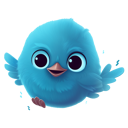
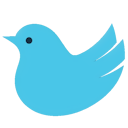
feat: Update files to reflect changes in Twitter's branding to 𝕏

diff --git a/content.js b/content.js
@@ -1,51 +1,48 @@
-// Define the logo selector and the SVG of the original Twitter logo.
-const logoSelector = 'header h1[role="heading"] svg'
-const originalTwitterLogo = `
-<svg viewBox="0 0 24 24" aria-hidden="true" class="r-1cvl2hr r-4qtqp9 r-yyyyoo r-16y2uox r-8kz0gk r-dnmrzs r-bnwqim r-1plcrui r-lrvibr r-lrsllp"><g><path d="M23.643 4.937c-.835.37-1.732.62-2.675.733.962-.576 1.7-1.49 2.048-2.578-.9.534-1.897.922-2.958 1.13-.85-.904-2.06-1.47-3.4-1.47-2.572 0-4.658 2.086-4.658 4.66 0 .364.042.718.12 1.06-3.873-.195-7.304-2.05-9.602-4.868-.4.69-.63 1.49-.63 2.342 0 1.616.823 3.043 2.072 3.878-.764-.025-1.482-.234-2.11-.583v.06c0 2.257 1.605 4.14 3.737 4.568-.392.106-.803.162-1.227.162-.3 0-.593-.028-.877-.082.593 1.85 2.313 3.198 4.352 3.234-1.595 1.25-3.604 1.995-5.786 1.995-.376 0-.747-.022-1.112-.065 2.062 1.323 4.51 2.093 7.14 2.093 8.57 0 13.255-7.098 13.255-13.254 0-.2-.005-.402-.014-.602.91-.658 1.7-1.477 2.323-2.41z"></path></g></svg>
-`
+const logoSelector = 'header h1[role="heading"] svg';
+const originalTwitterLogo = `<svg viewBox="0 0 24 24" aria-hidden="true" class="r-1cvl2hr r-4qtqp9 r-yyyyoo r-16y2uox r-8kz0gk r-dnmrzs r-bnwqim r-1plcrui r-lrvibr r-lrsllp"><g><path d="M23.643 4.937c-.835.37-1.732.62-2.675.733.962-.576 1.7-1.49 2.048-2.578-.9.534-1.897.922-2.958 1.13-.85-.904-2.06-1.47-3.4-1.47-2.572 0-4.658 2.086-4.658 4.66 0 .364.042.718.12 1.06-3.873-.195-7.304-2.05-9.602-4.868-.4.69-.63 1.49-.63 2.342 0 1.616.823 3.043 2.072 3.878-.764-.025-1.482-.234-2.11-.583v.06c0 2.257 1.605 4.14 3.737 4.568-.392.106-.803.162-1.227.162-.3 0-.593-.028-.877-.082.593 1.85 2.313 3.198 4.352 3.234-1.595 1.25-3.604 1.995-5.786 1.995-.376 0-.747-.022-1.112-.065 2.062 1.323 4.51 2.093 7.14 2.093 8.57 0 13.255-7.098 13.255-13.254 0-.2-.005-.402-.014-.602.91-.658 1.7-1.477 2.323-2.41z"></path></g></svg>`;
 
-// Initialize a flag to indicate whether the logo has been replaced.
-let logoReplaced = false
+let logoReplaced = false;
 
-// Function to replace the Doge logo with the original Twitter logo.
-const replaceLogo = () => {
-  // If the logo has already been replaced, return.
-  if (logoReplaced) return
+function replaceSvgElement(parentElement) {
+  const svgElements = Array.from(parentElement.querySelectorAll("svg"));
 
-  // Find the logo element using the defined selector.
-  const logoElement = document.querySelector(logoSelector)
-  if (!logoElement) return
-
-  // Get the parent element of the logo.
-  const logoElementWrapper = logoElement.parentNode
-
-  if (logoElementWrapper) {
-    // Iterate through the child elements of the logoElementWrapper.
-    for (let i = 0; i < logoElementWrapper.children.length; i++) {
-      const childElement = logoElementWrapper.children[i]
-
-      // If the child element is an SVG, replace its innerHTML with the original Twitter logo SVG path.
-      if (childElement.tagName.toLowerCase() === 'svg') {
-        childElement.innerHTML = originalTwitterLogo
-        logoReplaced = true
-        break
-      }
-    }
+  for (const svgElement of svgElements) {
+    svgElement.innerHTML = originalTwitterLogo;
+    logoReplaced = true;
+    break;
   }
 }
 
-// Create a MutationObserver to watch for changes in the DOM.
+function replaceLogo() {
+  if (logoReplaced) return;
+
+  const logoElement = document.querySelector(logoSelector);
+  if (!logoElement) return;
+
+  const parentElement = logoElement.parentNode;
+  if (!parentElement) return;
+
+  replaceSvgElement(parentElement);
+}
+
+function replaceFavicon() {
+  const faviconElement = document.querySelector('link[rel="shortcut icon"]');
+  if (faviconElement) {
+    faviconElement.href = "//abs.twimg.com/favicons/twitter.2.ico";
+  }
+}
+
 const observer = new MutationObserver((mutations) => {
   for (const mutation of mutations) {
-    // If new nodes are added to the DOM, attempt to replace the logo.
-    if (mutation.type === 'childList' && mutation.addedNodes.length) {
-      replaceLogo()
+    if (mutation.type === "childList" && mutation.addedNodes.length) {
+      replaceLogo();
+      replaceFavicon();
     }
   }
-})
+});
 
-// Start observing the document body for changes in the DOM.
-observer.observe(document.body, { childList: true, subtree: true })
-
-// Replace the logo once the DOM content is loaded.
-document.addEventListener('DOMContentLoaded', replaceLogo)
+observer.observe(document.body, { childList: true, subtree: true });
+document.addEventListener("DOMContentLoaded", function () {
+  replaceLogo();
+  replaceFavicon();
+});

diff --git a/background.js b/background.js
@@ -1,32 +1,30 @@
-// Function to update the extension icon based on the currently active tab's URL.
-function updateIcon(tab) {
-  const twitterUrlPattern = /^https?:\/\/(\w+\.)?twitter\.com\/.*$/
+const twitterUrlPattern = /^https?:\/\/(\w+\.)?twitter\.com\/.*$/;
+const coloredIconPath = { 48: "assets/twitter-48.png" };
+const grayIconPath = { 48: "assets/twitter-gray-48.png" };
 
-  // If the tab URL matches the Twitter URL pattern, set the colored icon.
+function setIcon(tab, path) {
+  chrome.action.setIcon({
+    path: path,
+    tabId: tab.id,
+  });
+}
+
+function updateIcon(tab) {
   if (tab.url.match(twitterUrlPattern)) {
-    chrome.action.setIcon({
-      path: { 48: 'assets/twitter-48.png' },
-      tabId: tab.id,
-    })
+    setIcon(tab, coloredIconPath);
   } else {
-    // If the tab URL does not match the pattern, set the grayed-out icon.
-    chrome.action.setIcon({
-      path: { 48: 'assets/twitter-gray-48.png' },
-      tabId: tab.id,
-    })
+    setIcon(tab, grayIconPath);
   }
 }
 
-// Listen for tab updates and update the icon when the tab's status is 'complete'.
 chrome.tabs.onUpdated.addListener((tabId, changeInfo, tab) => {
-  if (changeInfo.status === 'complete') {
-    updateIcon(tab)
+  if (changeInfo.status === "complete") {
+    updateIcon(tab);
   }
-})
+});
 
-// Listen for tab activation and update the icon for the newly activated tab.
 chrome.tabs.onActivated.addListener((activeInfo) => {
   chrome.tabs.get(activeInfo.tabId, (tab) => {
-    updateIcon(tab)
-  })
-})
+    updateIcon(tab);
+  });
+});

diff --git a/README.md b/README.md
@@ -1,15 +1,14 @@
 # NoDogeTweeter
 
-NoDogeTweeter is a Chrome extension that reverts the Twitter logo back to its original design, replacing the Doge logo.
+NoDogeTweeter is a Chrome extension that reverts the 𝕏 logo back to the original Twitter logo and changes the favicon back to its original design. This extension is useful if you prefer the original Twitter aesthetics over the changes made by Elon Musk.
 
 ![Marquee](./assets/marquee-promo.png)
 
-**Note:** Elon Musk changed the Twitter logo back to its original design, making this extension unnecessary. However, you can still use this as an example of how to create a Chrome extension to modify website elements.
-
 ## Features
 
-- Automatically detects the Doge logo on Twitter and replaces it with the original Twitter logo
-- Preserves the original HTML structure
+- Automatically detects the 𝕏 logo on Twitter and replaces it with the original Twitter logo.
+- Reverts the favicon back to its original design.
+- Preserves the original HTML structure.
 
 ## Installation
 
@@ -27,14 +26,10 @@ The NoDogeTweeter extension should now be installed and active in your Chrome br
 
 After installing the extension, simply visit Twitter, and the logo should be automatically reverted to the original one.
 
-## Known Issues
-
-- The extension currently does not support Twitter's dark mode
-
 ## License
 
 This project is licensed under the MIT License. See the [LICENSE](LICENSE) file for more information.
 
 ## Acknowledgements
 
-GPT-4 (ChatGPT)
+GPT-4 (ChatGPT & Poe)
